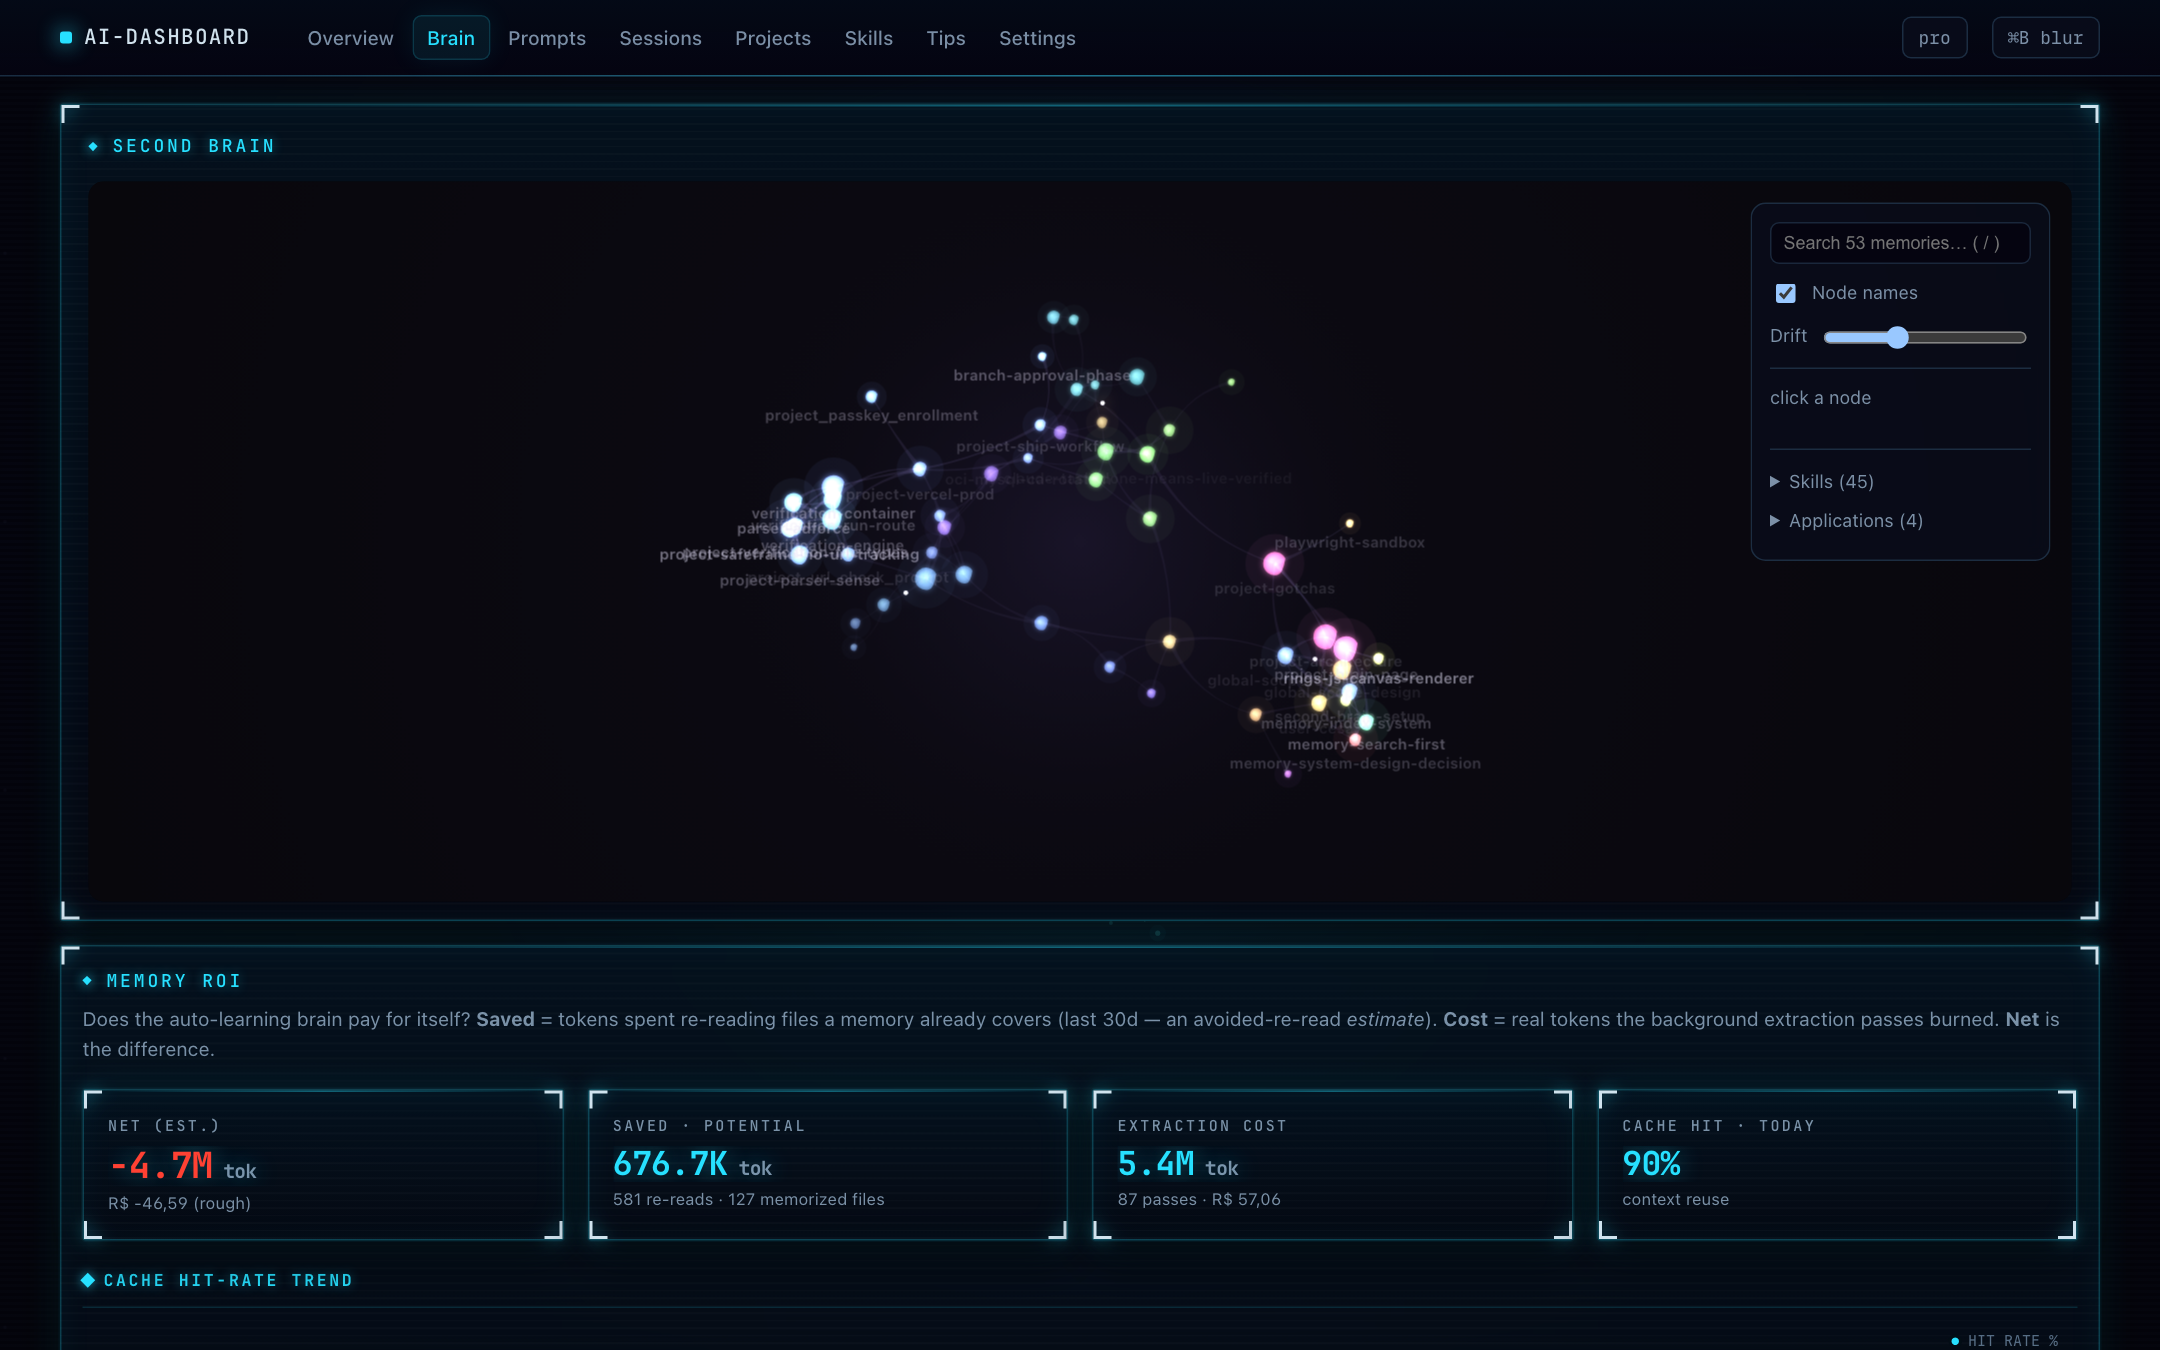
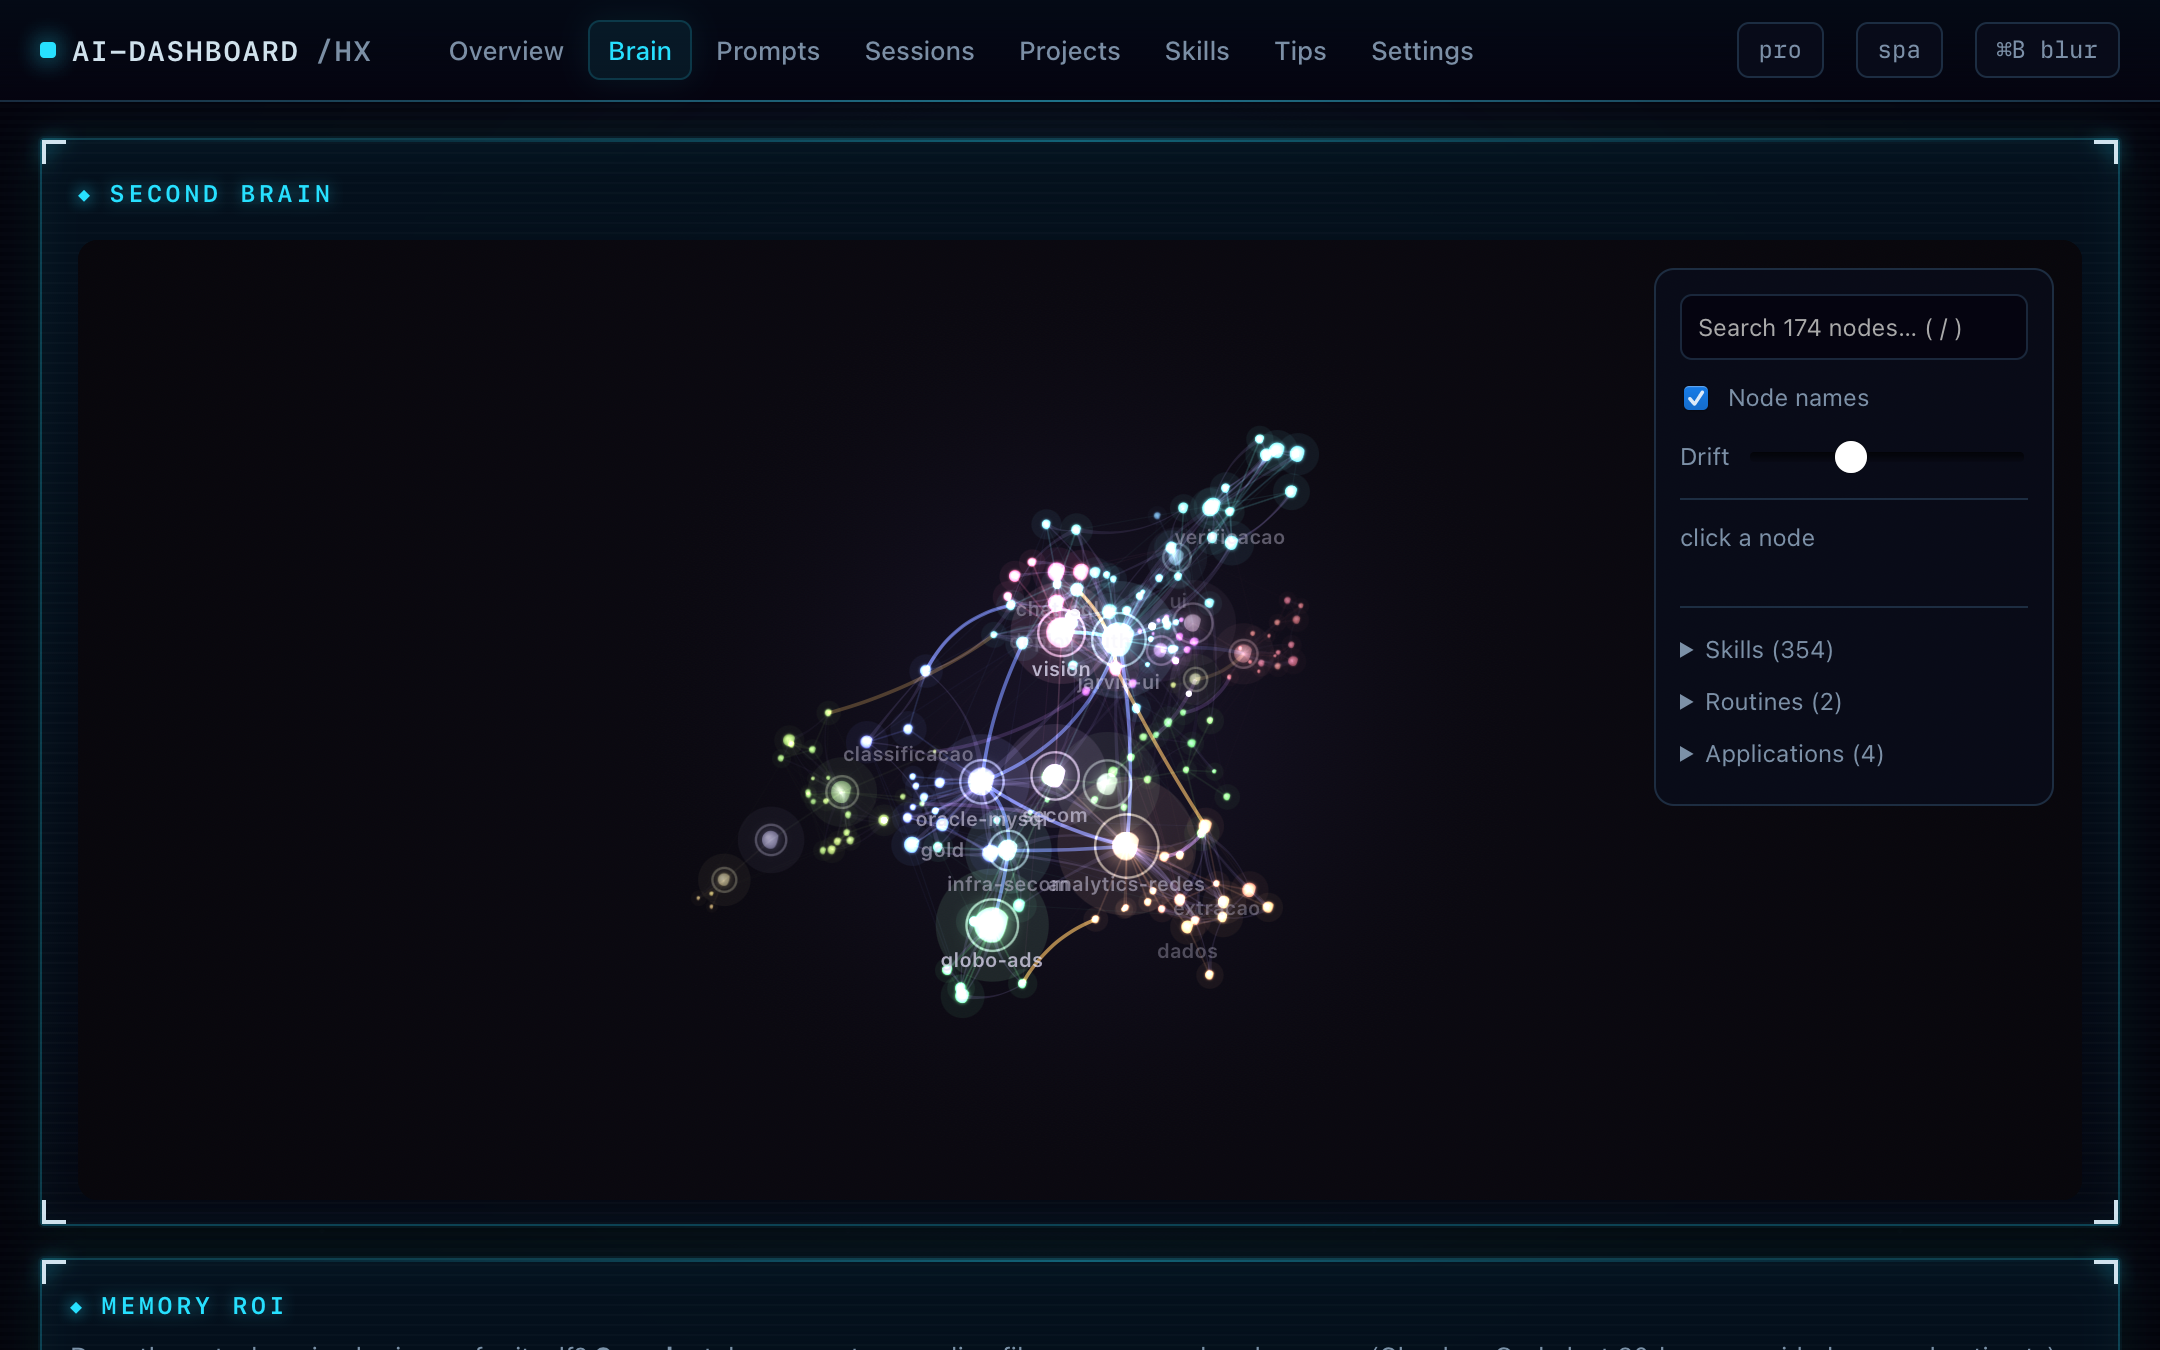
docs: ~/.brain paths, test count, fresh Brain screenshots

diff --git a/CLAUDE.md b/CLAUDE.md
@@ -10,14 +10,14 @@ Inspired by [phuryn/claude-usage](https://github.com/phuryn/claude-usage) but di
 
 ### Session contract (do not re-derive)
 - **What it is:** local stdlib-only CLI + SQLite cache + vanilla `web/` SPA (hash router, no build). Serves on `127.0.0.1:8181`; UI costs in **R$** via `~/.brain/.usd_brl`.
-- **Data plane:** `scan_all` every 30s → Claude JSONL + Grok sessions → `~/.brain/token-dashboard.db`; APIs under `/api/*`; Brain from `~/.brain/projects/` + `~/.brain/global`.
+- **Data plane:** `scan_all` every 30s → Claude JSONL + Grok sessions → `~/.brain/token-dashboard.db`; APIs under `/api/*`; Brain from `~/.brain/brain.db` (derived index of the `~/.brain/nodes` tree; schema contract in `memory_parsing.py`).
 - **Live UI:** SSE `/api/stream` may emit `scan`; client **soft-refreshes** only (Overview `export refresh`); full remount is **navigation-only**; Brain never auto-refreshes. `/api/stream` fans out to **one queue per connected client** (`_publish` / `_subscribe`) — a single shared queue handed each event to exactly one client.
 - **Dedup:** assistant billing key is `(session_id, message_id)`, not top-level `uuid` (streaming snapshots).
 - **Touch carefully:** `web/app.js` router/SSE, `web/charts.js` instance reuse, `web/rings.js` teardown, `token_dashboard/server.py` `_scan_loop` — do not “fix” live updates by remounting tabs.
 
 ## Status
 
-Working codebase. 139 Python unit tests (`python3 -m unittest discover tests`). Eight UI tabs wired up (Overview, Brain, Prompts, Sessions, Projects, Skills, Tips, Settings). Runs on macOS, Windows, and Linux.
+Working codebase. 158 Python unit tests (`python3 -m unittest discover tests`). Eight UI tabs wired up (Overview, Brain, Prompts, Sessions, Projects, Skills, Tips, Settings). Runs on macOS, Windows, and Linux.
 
 **The default UI is now the server-rendered htmx frontend, served at `/`.** The vanilla SPA is untouched and still fully wired at **`/spa`** (linked from the topbar). To switch back, flip the two branches at the top of `do_GET` in `server.py`.
 
@@ -36,10 +36,10 @@ A full-parity server-rendered UI. Both frontends run in the same process: htmx a
 
 ## Architecture
 
-- `cli.py` → `scan_all` → Claude `scanner.py` + Grok `grok_scanner.py` → `~/.claude/token-dashboard.db` (SQLite, `source` column)
+- `cli.py` → `scan_all` → Claude `scanner.py` + Grok `grok_scanner.py` → `~/.brain/token-dashboard.db` (SQLite, `source` column)
 - `token_dashboard/server.py` exposes JSON APIs (`/api/*`) + SSE stream (`/api/stream`) + static frontend (`web/`)
-- Brain extras: `memory.py` / `memory_parsing.py` → `/api/brain`; `workspace.py` → `/api/workspace` + `POST /api/open`
-- `web/` is vanilla JS, no build step — hash router + ECharts + `rings.js` + HUD background; costs via `fmt.usd` → BRL (`~/.claude/.usd_brl`)
+- Brain extras: `memory_parsing.py` (reads `brain.db`) + `memory.py` (projects/graph/ROI/suggestions; keep/remove move notes to `nodes/.trash` and rerun `brain.py rebuild`) → `/api/brain`; `workspace.py` → `/api/workspace` + `POST /api/open`
+- `web/` is vanilla JS, no build step — hash router + ECharts + `rings.js` + HUD background; costs via `fmt.usd` → BRL (`~/.brain/.usd_brl`)
 
 ### `token_dashboard/server.py` (HTTP process)
 
@@ -47,11 +47,11 @@ Stdlib-only `ThreadingHTTPServer` + handler factory (`build_handler` closes over
 
 ### `web/rings.js` (Brain tab graph)
 
-Hand-rolled 2D-canvas 3D **synapse graph** for the Brain tab — no SVG, no charting lib, unrelated to `web/charts.js`/ECharts. One-shot Fruchterman-Reingold 3D layout on mount, then just rotates; color is a **rainbow hue per project/group**, deliberately independent of the app's `--accent` HUD palette — don't reharmonize it with chart colors. Shift+drag orbits (plain drag pans) — ctrl+drag was tried and rejected because ctrl+click opens Safari's context menu. Callers must invoke the returned `__teardown()` on unmount to stop the rAF loop/interval/ResizeObserver. SSE soft-refresh is skipped on the Brain tab so the graph does not reset mid-view. Full remount happens only on hash navigation; Overview implements optional `export async function refresh(root)` for in-place live updates.
+Hand-rolled 2D-canvas 3D **synapse graph** for the Brain tab — no SVG, no charting lib, unrelated to `web/charts.js`/ECharts. Renders the Brain **tree**: node radius by kind (domain > project hub > topic > note) + descendant count, hubs glow with a ring. Layout = hierarchical seed (domains on a sphere, children fanned out from their parent) + a short Fruchterman-Reingold pass (`parent` springs short, `link` long, `soft` not laid out), then fit so the p90 node reaches 1.6·WORLD; typed links (`same-solution`, `reuses`, `depends-on`, `supersedes`, `related`) are colored by kind (`EDGE_RGB`) and are the only edges that fire pulses; note labels only at zoom ≥ 1.8. Payload is `brain.graph` from `/api/brain`; a flat legacy payload (no `kind`) still renders the old way. Then it just rotates; color is a **rainbow hue per project/group**, deliberately independent of the app's `--accent` HUD palette — don't reharmonize it with chart colors. Shift+drag orbits (plain drag pans) — ctrl+drag was tried and rejected because ctrl+click opens Safari's context menu. Callers must invoke the returned `__teardown()` on unmount to stop the rAF loop/interval/ResizeObserver. SSE soft-refresh is skipped on the Brain tab so the graph does not reset mid-view. Full remount happens only on hash navigation; Overview implements optional `export async function refresh(root)` for in-place live updates.
 
 ### `web/routes/brain.js` (Brain tab route)
 
-`#/brain` page: fetches `/api/brain` + `/api/workspace` (workspace optional). **Canvas nodes = memory entries + wikilinks only**; skills/routines/apps stay in the sidebar lists. Wires `ringsCanvas`, search (`/`), labels/spin, ROI KPIs, timeline chart, suggestions (dismiss → `/api/tips/dismiss`), prune + auto keep/remove (`/api/brain/keep|remove` → full reload). Default export **returns teardown** (`rings.__teardown` + slash keydown). **No `export refresh`** — SSE deliberately skips this tab. Durable notes: `…/memory/brain_js_contract.md`.
+`#/brain` page: fetches `/api/brain` + `/api/workspace` (workspace optional). **Canvas = `brain.graph`** (whole tree + typed links; detail panel lists typed links first, with their `why`); skills/routines/apps stay in the sidebar lists. Wires `ringsCanvas`, search (`/`), labels/spin, ROI KPIs, timeline chart, suggestions (dismiss → `/api/tips/dismiss`), prune + auto keep/remove (`/api/brain/keep|remove` → full reload). Default export **returns teardown** (`rings.__teardown` + slash keydown). **No `export refresh`** — SSE deliberately skips this tab. Durable notes: `…/memory/brain_js_contract.md`.
 
 ### `web/routes/overview.js` (Overview tab)
 
